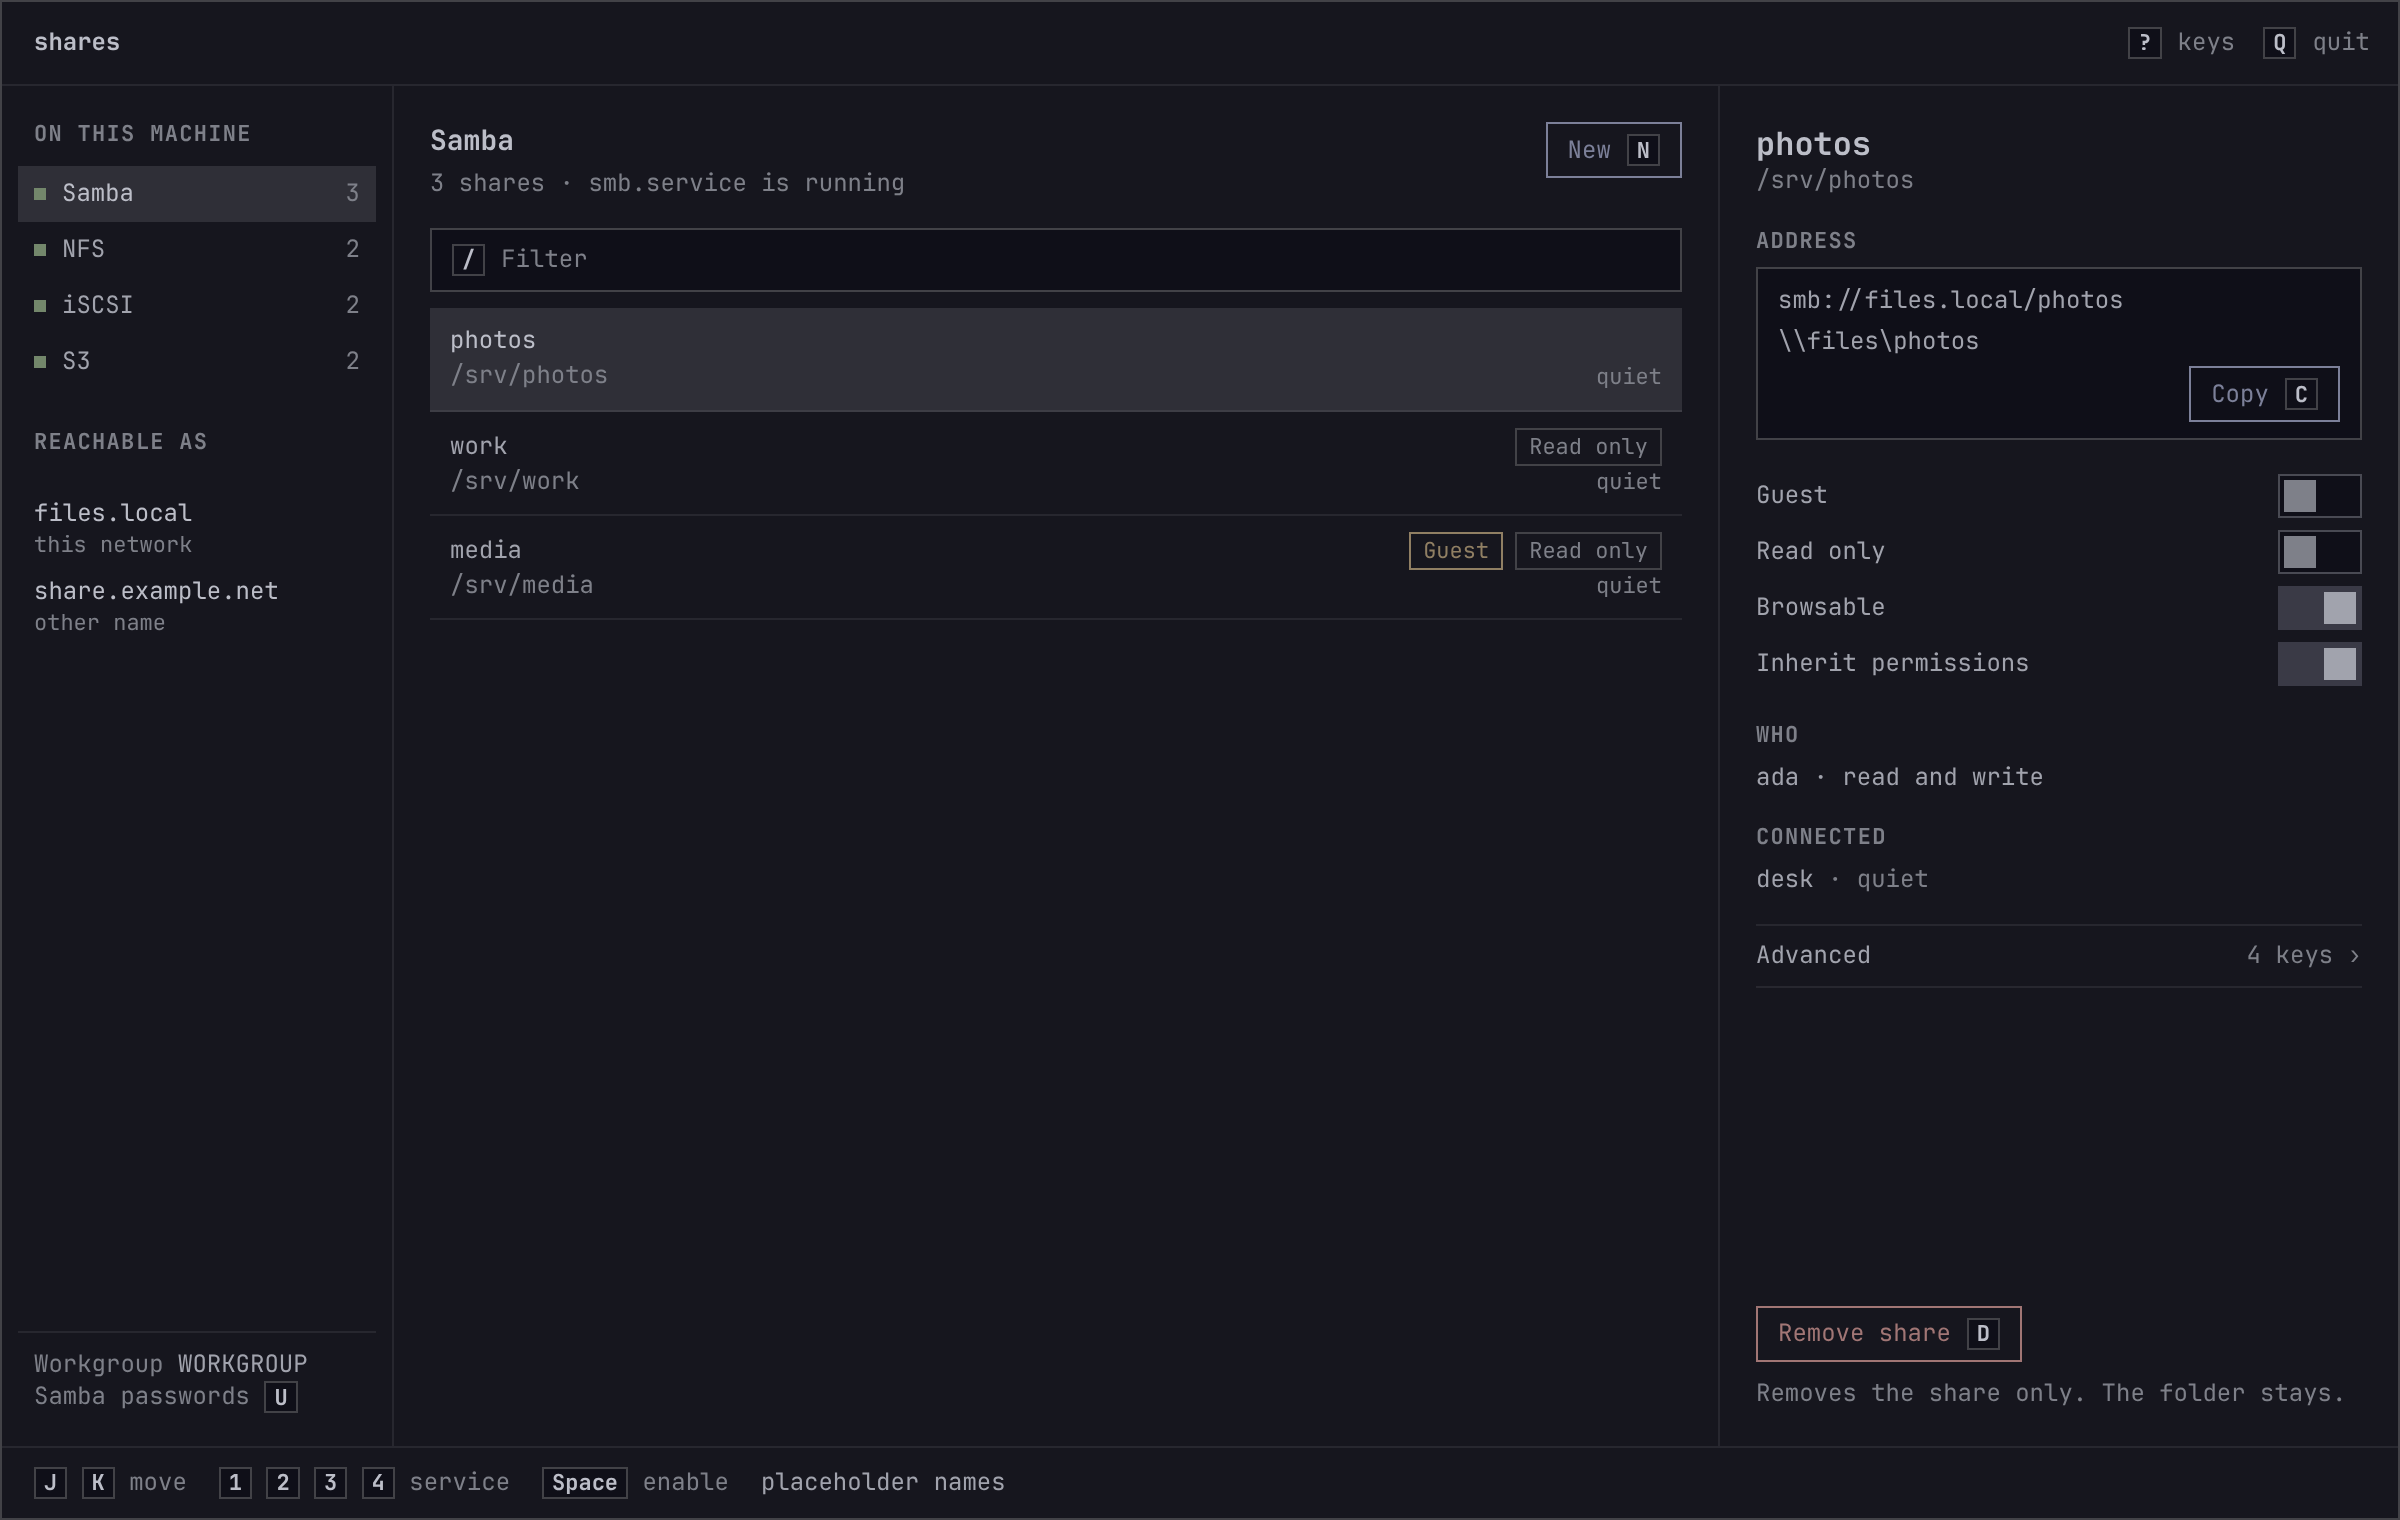
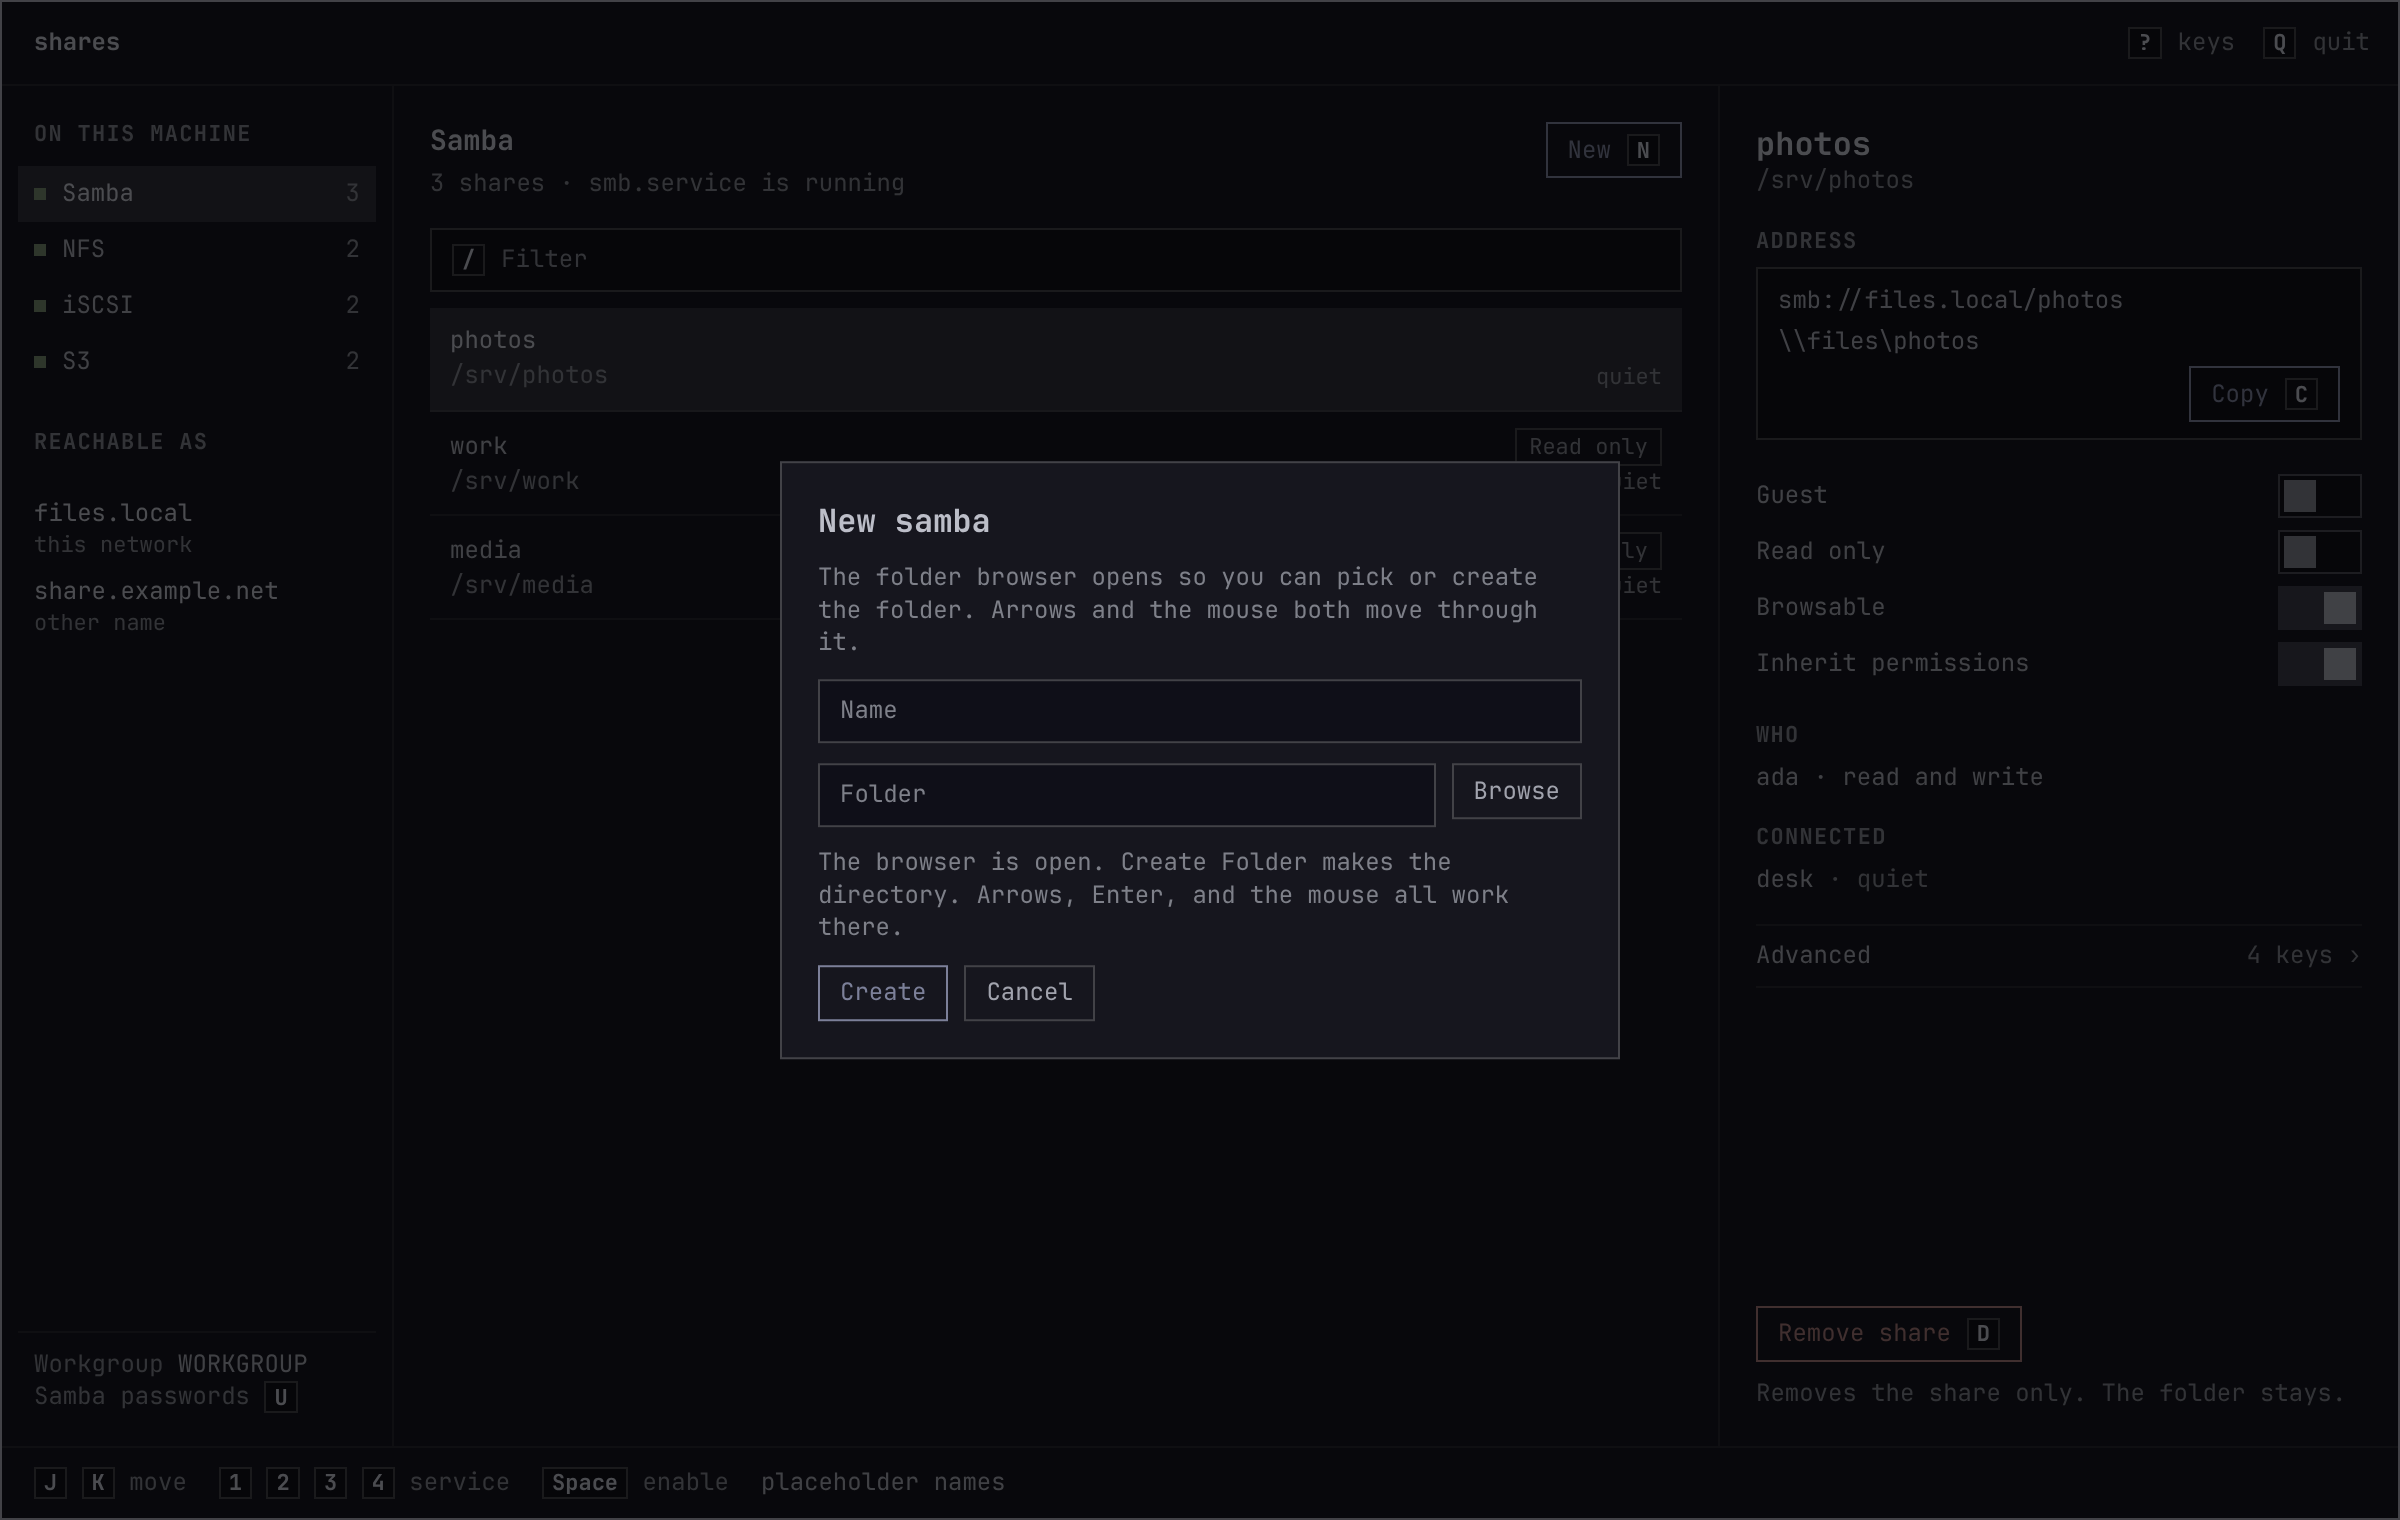
Document ZFS shares and show the folder browser
The Samba picture includes Browse, and the README states which snapshot names Previous Versions can list.

diff --git a/docs/mockups/samba.html b/docs/mockups/samba.html
@@ -25,7 +25,7 @@ html, body {
   font-family: "JetBrainsMono NF", "JetBrains Mono", ui-monospace, monospace;
   font-size: 12px; line-height: 1.35;
 }
-.app { width: 1200px; height: 760px; display: flex; flex-direction: column; border: 1px solid var(--border); }
+.app { position: relative; width: 1200px; height: 760px; display: flex; flex-direction: column; border: 1px solid var(--border); }
 .top, .bottom { flex: none; display: flex; align-items: center; }
 .top { height: 42px; justify-content: space-between; padding: 0 14px 0 16px; border-bottom: 1px solid var(--hairline); }
 .bottom { height: 36px; gap: 16px; padding: 0 16px; border-top: 1px solid var(--hairline); color: var(--secondary); }
@@ -109,6 +109,21 @@ h1 { font-size: 14px; font-weight: 700; color: var(--bright); }
 .chev { color: var(--secondary); }
 .detail-foot { margin-top: auto; display: flex; flex-direction: column; align-items: flex-start; gap: 8px; }
 .bottom b { color: var(--fg); font-weight: 500; }
+.shade { position: absolute; inset: 0; background: rgba(0, 0, 0, 0.60); }
+.dialog {
+  position: absolute; left: 50%; top: 50%; transform: translate(-50%, -50%);
+  width: 420px; background: var(--bg); border: 1px solid var(--border); padding: 18px;
+}
+.dialog h3 { font-size: 16px; font-weight: 700; color: var(--bright); margin-bottom: 10px; }
+.dialog p { color: var(--secondary); margin-bottom: 10px; }
+.field {
+  height: 32px; display: flex; align-items: center; padding: 0 10px; margin-bottom: 10px;
+  background: var(--inset); border: 1px solid var(--border); color: var(--secondary);
+}
+.path-row { display: flex; gap: 8px; margin-bottom: 10px; }
+.path-row .field { flex: 1; margin-bottom: 0; }
+.note { color: var(--yellow); margin-bottom: 10px; }
+.actions { display: flex; gap: 8px; }
 </style>
 </head>
 <body>
@@ -195,6 +210,22 @@ h1 { font-size: 14px; font-weight: 700; color: var(--bright); }
       <span><kbd>Space</kbd> enable</span>
       <span><b>placeholder names</b></span>
     </footer>
+    
+    <div class="shade"></div>
+    <div class="dialog">
+      <h3>New samba</h3>
+      <p>The folder browser opens so you can pick or create the folder. Arrows and the mouse both move through it.</p>
+      <div class="field">Name</div>
+      <div class="path-row">
+        <div class="field">Folder</div>
+        <button class="btn">Browse</button>
+      </div>
+      <p class="note">The browser is open. Create Folder makes the directory. Arrows, Enter, and the mouse all work there.</p>
+      <div class="actions">
+        <button class="btn primary">Create</button>
+        <button class="btn">Cancel</button>
+      </div>
+    </div>
   </div>
 </body>
 </html>

diff --git a/docs/mockups/render.py b/docs/mockups/render.py
@@ -30,7 +30,7 @@ html, body {
   font-family: "JetBrainsMono NF", "JetBrains Mono", ui-monospace, monospace;
   font-size: 12px; line-height: 1.35;
 }
-.app { width: 1200px; height: 760px; display: flex; flex-direction: column; border: 1px solid var(--border); }
+.app { position: relative; width: 1200px; height: 760px; display: flex; flex-direction: column; border: 1px solid var(--border); }
 .top, .bottom { flex: none; display: flex; align-items: center; }
 .top { height: 42px; justify-content: space-between; padding: 0 14px 0 16px; border-bottom: 1px solid var(--hairline); }
 .bottom { height: 36px; gap: 16px; padding: 0 16px; border-top: 1px solid var(--hairline); color: var(--secondary); }
@@ -114,6 +114,21 @@ h1 { font-size: 14px; font-weight: 700; color: var(--bright); }
 .chev { color: var(--secondary); }
 .detail-foot { margin-top: auto; display: flex; flex-direction: column; align-items: flex-start; gap: 8px; }
 .bottom b { color: var(--fg); font-weight: 500; }
+.shade { position: absolute; inset: 0; background: rgba(0, 0, 0, 0.60); }
+.dialog {
+  position: absolute; left: 50%; top: 50%; transform: translate(-50%, -50%);
+  width: 420px; background: var(--bg); border: 1px solid var(--border); padding: 18px;
+}
+.dialog h3 { font-size: 16px; font-weight: 700; color: var(--bright); margin-bottom: 10px; }
+.dialog p { color: var(--secondary); margin-bottom: 10px; }
+.field {
+  height: 32px; display: flex; align-items: center; padding: 0 10px; margin-bottom: 10px;
+  background: var(--inset); border: 1px solid var(--border); color: var(--secondary);
+}
+.path-row { display: flex; gap: 8px; margin-bottom: 10px; }
+.path-row .field { flex: 1; margin-bottom: 0; }
+.note { color: var(--yellow); margin-bottom: 10px; }
+.actions { display: flex; gap: 8px; }
 """
 
 NAV = [
@@ -152,6 +167,28 @@ def row(item, selected):
 def switch(label, on):
     klass = "switch on" if on else "switch"
     return f'<div class="switch-row"><span>{label}</span><span class="{klass}"><span class="thumb"></span></span></div>'
+
+
+def dialog(spec):
+    form = spec.get("dialog")
+    if not form:
+        return ""
+    return f"""
+    <div class="shade"></div>
+    <div class="dialog">
+      <h3>{form["title"]}</h3>
+      <p>{form["hint"]}</p>
+      <div class="field">{form["name"]}</div>
+      <div class="path-row">
+        <div class="field">{form["path"]}</div>
+        <button class="btn">Browse</button>
+      </div>
+      <p class="note">{form["note"]}</p>
+      <div class="actions">
+        <button class="btn primary">Create</button>
+        <button class="btn">Cancel</button>
+      </div>
+    </div>"""
 
 
 def page(spec):
@@ -234,6 +271,7 @@ def page(spec):
       <span>{kbd("Space")} enable</span>
       <span><b>placeholder names</b></span>
     </footer>
+    {dialog(spec)}
   </div>
 </body>
 </html>
@@ -261,6 +299,13 @@ PAGES = [
             ("WHO", "ada · read and write"),
             ("CONNECTED", "desk <span>· quiet</span>"),
         ],
+        "dialog": {
+            "title": "New samba",
+            "hint": "The folder browser opens so you can pick or create the folder. Arrows and the mouse both move through it.",
+            "name": "Name",
+            "path": "Folder",
+            "note": "The browser is open. Create Folder makes the directory. Arrows, Enter, and the mouse all work there.",
+        },
     },
     {
         "id": "nfs",

diff --git a/README.md b/README.md
@@ -35,6 +35,23 @@ Removing a share, export, or target removes that definition only. The folder or 
 
 Samba can set guest access, read only, browsable, inherit permissions, valid users, Windows ACLs, ZFS or Ceph shadow copies, the MacOS fruit preset, audit logging, a directory mode, and creating a missing folder. Extra `smb.conf` keys are kept. Global settings cover the workgroup, server string, log level, and the MacOS preset. A Samba password does not change the Linux login password.
 
+## ZFS
+
+A folder on a ZFS dataset can be a Samba share or an NFS export. A file on that dataset can be an iSCSI disk image. A zvol can be an iSCSI block device when its path is `/dev/zvol/pool/name` and the backstore kind is block.
+
+Turn on Shadow copy for a Samba share. The shadow kind stays `zfs` unless you set it to `ceph`. Save then writes:
+
+```
+vfs objects = shadow_copy2
+shadow:snapdir = .zfs/snapshot
+shadow:sort = desc
+shadow:format = %Y-%m-%d-%H%M%S
+```
+
+Windows Previous Versions lists those snapshots when the share path is the dataset mount, so `.zfs/snapshot` is inside that folder, and each snapshot name looks like `2026-10-11-143000`.
+
+Shares does not create datasets, snapshots, or zvols. Create Folder makes a directory on the dataset that is already mounted. Snapshots stay a `zfs snapshot` job. An NFS export is written to `/etc/exports.d/shares.exports`. Removing a share, export, or target leaves the dataset, its snapshots, and any zvol in place.
+
 NFS exports take one or more clients, each with its own options. iSCSI targets take a file or block backstore, portals, initiator groups, and CHAP. Clustered mode creates an RBD image and uses `gwcli` when those tools are installed. It does not manage Pacemaker or Ceph monitors.
 
 S3 lists, creates, and deletes buckets for MinIO (`mc` alias `local`), Garage, and RustFS, and lists and removes empty Ceph RGW buckets. Access users and keys can be created for MinIO, Garage, and Ceph. Ceph creates a bucket through the S3 API, so this window does not. RustFS access keys are listed and not created here. Policies, groups, versioning, and object lock are not in this window.
